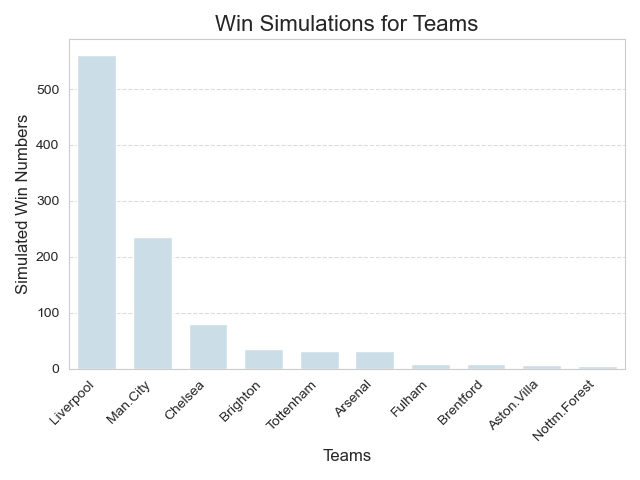
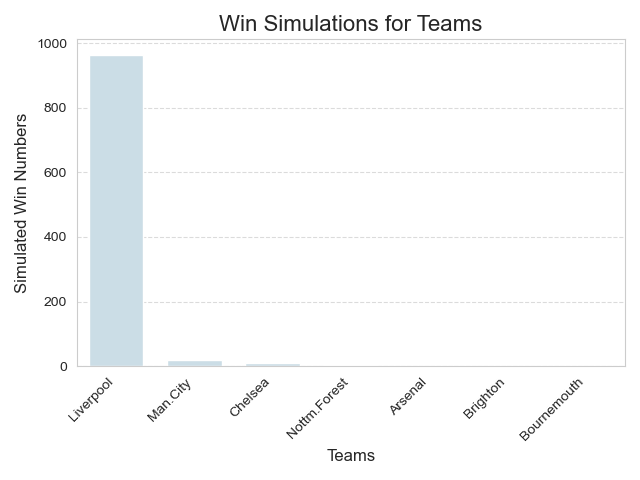
created liverpool favoured lambda

diff --git a/probProject.py b/probProject.py
@@ -12,9 +12,12 @@ pl_remaining = pd.read_csv("PL results after 10th nov (Matchday 11).csv", index_
 pl_stats['goalChance'] = pl_stats['GF'] / pl_stats['Shots']
 pl_stats['xGoalsPerGame'] = pl_stats['GF'] / (pl_stats['Wins'] + pl_stats['Draws'] + pl_stats['Losses'])
 pl_stats['xConcededPerGame'] = pl_stats['GA'] / (pl_stats['Wins'] + pl_stats['Draws'] + pl_stats['Losses'])
-pl_stats['xShotsPerGame'] = pl_stats['Shots'] / (pl_stats['Wins'] + pl_stats['Draws'] + pl_stats['Losses'])
 pl_stats['xHomeGoalsPerGame'] = pl_stats['homeGoals'] / pl_stats['homeGames']
 pl_stats['xAwayGoalsPerGame'] = pl_stats['awayGoals'] / pl_stats['awayGames']
+pl_stats['xHomeConcededPerGame'] = pl_stats['homeConceded'] / pl_stats['homeGames']
+pl_stats['xAwayConcededPerGame'] = pl_stats['awayConceded'] / pl_stats['awayGames']
+average_home_conceded = pl_stats['xHomeConcededPerGame'].mean()
+average_away_conceded = pl_stats['xAwayConcededPerGame'].mean()
 
 
 pl_remaining.replace("", np.nan, inplace=True)
@@ -25,16 +28,16 @@ remaining_matches = pd.DataFrame({
 })
 
 
-def lambda_value(club, pl_stats, home):
+def lambda_value(club, pl_stats, home, opposition):
     if(home):
-        return pl_stats.loc[club, 'xHomeGoalsPerGame']
+        return pl_stats.loc[club, 'xHomeGoalsPerGame'] * (pl_stats.loc[opposition, 'xAwayConcededPerGame'] / average_away_conceded)
     else:
-        return pl_stats.loc[club, 'xAwayGoalsPerGame']
+        return pl_stats.loc[club, 'xAwayGoalsPerGame'] * (pl_stats.loc[opposition, 'xHomeConcededPerGame'] / average_home_conceded)
 
 # Simulate a single match
 def simulate_match(home, away, pl_stats):
-    lambda_home = lambda_value(home, pl_stats, True)
-    lambda_away = lambda_value(away, pl_stats, False)
+    lambda_home = lambda_value(home, pl_stats, True, away)
+    lambda_away = lambda_value(away, pl_stats, False, home)
     home_goals = np.random.poisson(lambda_home)
     away_goals = np.random.poisson(lambda_away)
     
@@ -78,7 +81,6 @@ def simulate_season(pl_stats, pl_remaining, final_stats):
 
     final_stats = final_stats.sort_values('Points', ascending=False)
     return final_stats
-#    return final_stats.index[0]
 
 np.random.seed(0)
 sim_count = 1000
